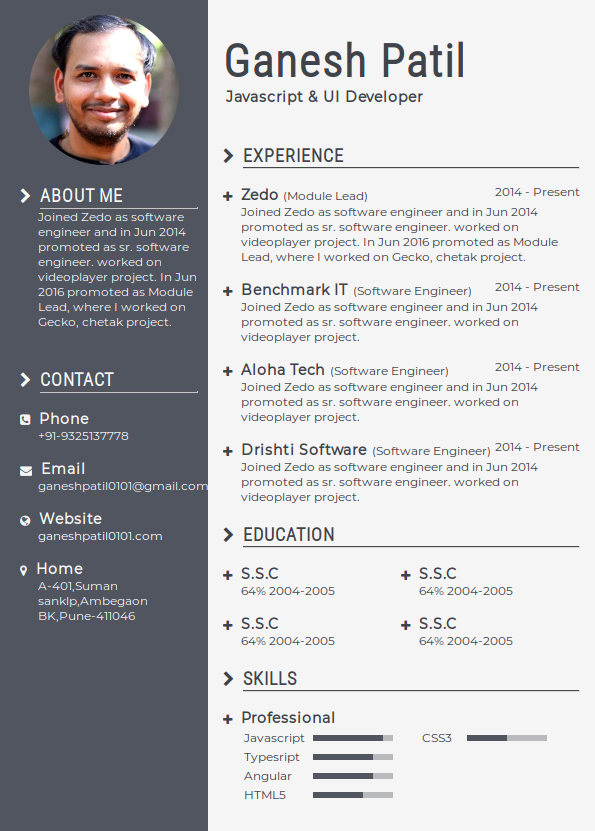
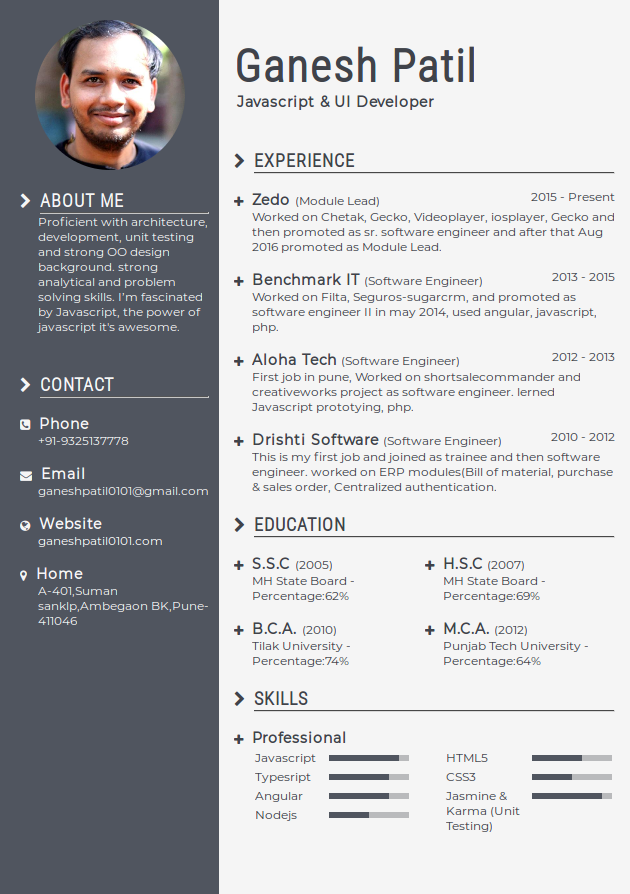
updated content

Changed region(s): [[0.0303, 0.0, 0.9983, 1.0], [0.6958, 0.8424, 0.9681, 0.9326], [0.0303, 0.0903, 0.0605, 0.1203]]

diff --git a/resume.html b/resume.html
@@ -12,8 +12,8 @@
 		color: #40434a;
     }
     .section{
-    	height: 842px;
-    	width: 595px;
+    	height: 900px;
+    	width: 630px;
     	margin: 0 auto;
     	display: flex;
 		box-shadow: -25px 24px 30px 15px #868585;
@@ -111,7 +111,7 @@ flex-direction: column;
 					<span class="sub-heading-m" style="color: #f5f5f5;" > ABOUT ME</span>
 					<hr style="margin: 0px 0px 0px 20px;" />
 					<div class="regular" style="margin-left: 18px"  >
-								Joined Zedo as software engineer and in Jun 2014 promoted as sr. software engineer. worked on videoplayer project. In Jun 2016 promoted as Module Lead, where I worked on Gecko, chetak project. 
+						Proficient with architecture, development, unit testing and strong OO design background. strong analytical and problem solving skills. I’m fascinated by Javascript, the power of javascript it's awesome.
 					</div>	
 				</div>
 				<div style="margin-top: 40px">
@@ -178,10 +178,10 @@ flex-direction: column;
     						<span style="margin-left:5px ">
 								<span class="heading-m" > Zedo </span>
 								<span class="heading-s"> (Module Lead) </span>
-								<span class="heading-s" style="float: right;" > 2014 - Present </span>
+								<span class="heading-s" style="float: right;" > 2015 - Present </span>
 							</span>
 							<div class="regular" style="margin-left: 18px"  >
-								Joined Zedo as software engineer and in Jun 2014 promoted as sr. software engineer. worked on videoplayer project. In Jun 2016 promoted as Module Lead, where I worked on Gecko, chetak project. 
+								Worked on Chetak, Gecko, Videoplayer, iosplayer, Gecko and then promoted as sr. software engineer and after that Aug 2016 promoted as Module Lead.
 							</div>
     					</div>
 
@@ -190,10 +190,10 @@ flex-direction: column;
     						<span style="margin-left:5px ">
 								<span class="heading-m" > Benchmark IT </span>
 								<span class="heading-s"> (Software Engineer) </span>
-								<span class="heading-s" style="float: right;" > 2014 - Present </span>
+								<span class="heading-s" style="float: right;" > 2013 - 2015 </span>
 							</span>
-							<div class="regular" style="margin-left: 18px"  >
-								Joined Zedo as software engineer and in Jun 2014 promoted as sr. software engineer. worked on videoplayer project. 
+								<div class="regular" style="margin-left: 18px"  >
+									Worked on Filta, Seguros-sugarcrm, and promoted as software engineer II in may 2014, used angular, javascript, php.
 							</div>
     					</div>
 
@@ -202,10 +202,10 @@ flex-direction: column;
     						<span style="margin-left:5px ">
 								<span class="heading-m" > Aloha Tech </span>
 								<span class="heading-s"> (Software Engineer) </span>
-								<span class="heading-s" style="float: right;" > 2014 - Present </span>
+								<span class="heading-s" style="float: right;" > 2012 - 2013 </span>
 							</span>
 							<div class="regular" style="margin-left: 18px"  >
-								Joined Zedo as software engineer and in Jun 2014 promoted as sr. software engineer. worked on videoplayer project. 
+								First job in pune, Worked on shortsalecommander and creativeworks project as software engineer. lerned Javascript prototying, php.
 							</div>
     					</div>
     					<div class="exp">
@@ -213,10 +213,10 @@ flex-direction: column;
     						<span style="margin-left:5px ">
 								<span class="heading-m" > Drishti Software </span>
 								<span class="heading-s"> (Software Engineer) </span>
-								<span class="heading-s" style="float: right;" > 2014 - Present </span>
+								<span class="heading-s" style="float: right;" > 2010 - 2012 </span>
 							</span>
 							<div class="regular" style="margin-left: 18px"  >
-								Joined Zedo as software engineer and in Jun 2014 promoted as sr. software engineer. worked on videoplayer project. 
+								This is my first job and joined as trainee and then software engineer. worked on ERP modules(Bill of material, purchase & sales order, Centralized authentication.
 							</div>
     					</div>
 
@@ -306,10 +306,10 @@ flex-direction: column;
 											</td>
 										</tr>
 										<tr>
-											<td> HTML5 </td>
+											<td> Nodejs </td>
 											<td style="display: inline-flex;"> 
-												<hr class="filled" style="width: 50px" />
-											 	<hr class="empty" style="width:30px" />
+												<hr class="filled" style="width: 40px" />
+											 	<hr class="empty" style="width:40px" />
 											</td>
 										</tr>
 									</table>
@@ -324,12 +324,26 @@ flex-direction: column;
 									<div class="regular" style="margin-left: 18px"  >
 										<table style="border: 0;width: 100%">
 										<tr>
+											<td>HTML5</td>
+											<td style="display: inline-flex;"> 
+												<hr class="filled" style="width: 50px" />
+											 	<hr class="empty" style="width:30px" />
+											</td>
+										</tr>	
+										<tr>
 											<td>CSS3</td>
 											<td style="display: inline-flex;"> 
 												<hr class="filled" style="width: 40px" />
 											 	<hr class="empty" style="width:40px" />
 											</td>
-										</tr>										
+										</tr>	
+										<tr>
+											<td>Jasmine & Karma (Unit Testing)</td>
+											<td style="display: inline-flex;"> 
+												<hr class="filled" style="width: 70px" />
+											 	<hr class="empty" style="width:10px" />
+											</td>
+										</tr>									
 									</table>
 									</div>
 	    						</div>
